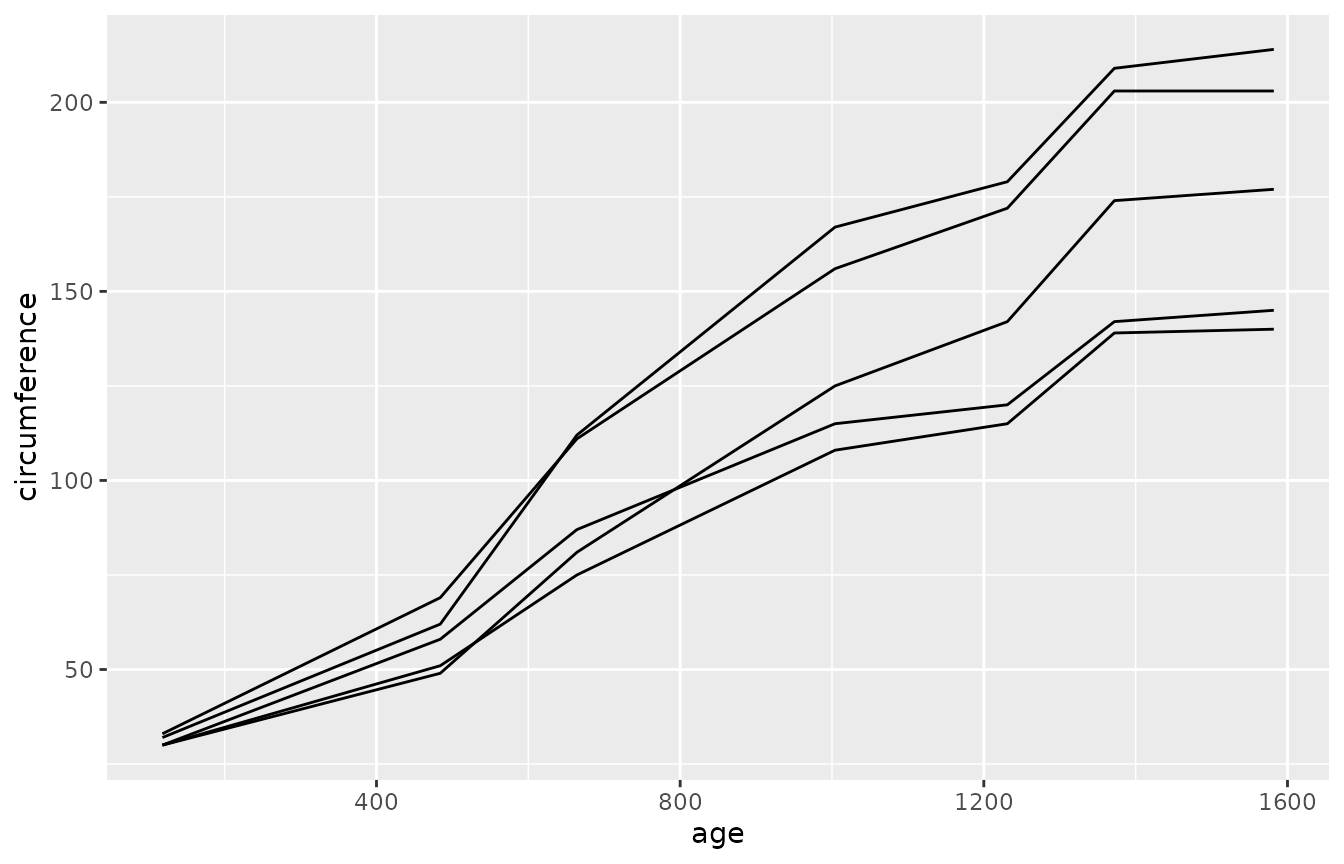
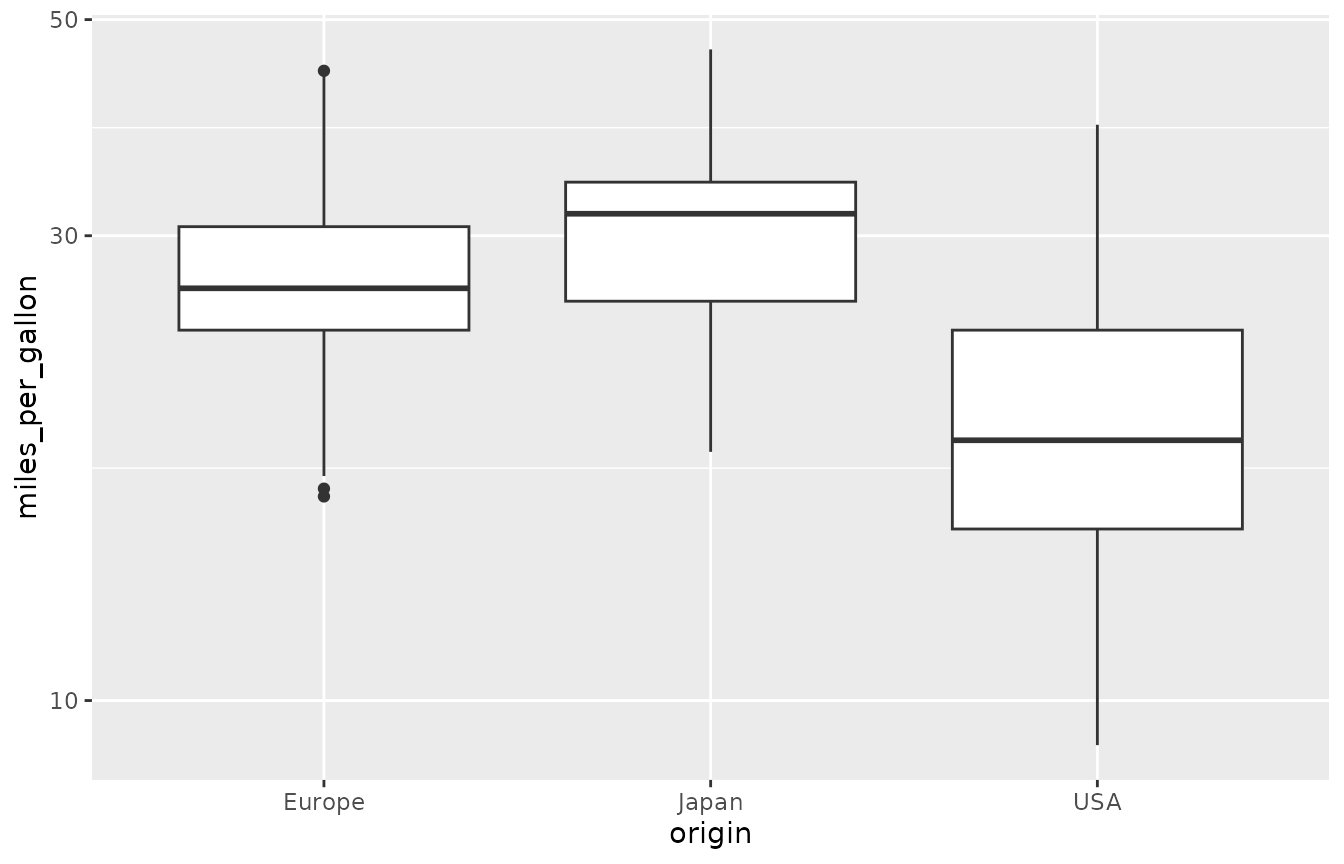
Deploying to gh-pages from @ sgl-projects/rsgl@6711109b4e8c98e51c51e7582ab96bc033e7d6c4 🚀

diff --git a/articles/example-gallery.html b/articles/example-gallery.html
@@ -122,6 +122,25 @@ analyzed.</p>
 <div class="sourceCode" id="cb4"><pre class="downlit sourceCode r">
 <code class="sourceCode R"><span><span class="fu"><a href="../reference/dbGetPlot.html">dbGetPlot</a></span><span class="op">(</span><span class="va">con</span>, <span class="st">"</span></span>
 <span><span class="st">  visualize</span></span>
+<span><span class="st">    horsepower as x,</span></span>
+<span><span class="st">    miles_per_gallon as y</span></span>
+<span><span class="st">  from cars</span></span>
+<span><span class="st">  using (</span></span>
+<span><span class="st">    points</span></span>
+<span><span class="st">    layer</span></span>
+<span><span class="st">    regression line</span></span>
+<span><span class="st">  )</span></span>
+<span><span class="st">  facet by</span></span>
+<span><span class="st">    origin</span></span>
+<span><span class="st">  scale by</span></span>
+<span><span class="st">    log(x),</span></span>
+<span><span class="st">    log(y)</span></span>
+<span><span class="st">"</span><span class="op">)</span></span></code></pre></div>
+<p><img src="example-gallery_files/figure-html/unnamed-chunk-4-1.png" class="r-plt" alt="" width="672"></p>
+<hr>
+<div class="sourceCode" id="cb5"><pre class="downlit sourceCode r">
+<code class="sourceCode R"><span><span class="fu"><a href="../reference/dbGetPlot.html">dbGetPlot</a></span><span class="op">(</span><span class="va">con</span>, <span class="st">"</span></span>
+<span><span class="st">  visualize</span></span>
 <span><span class="st">    bin(miles_per_gallon) as x,</span></span>
 <span><span class="st">    count(*) as y</span></span>
 <span><span class="st">  from cars</span></span>
@@ -129,7 +148,19 @@ analyzed.</p>
 <span><span class="st">    bin(miles_per_gallon)</span></span>
 <span><span class="st">  using bars</span></span>
 <span><span class="st">"</span><span class="op">)</span></span></code></pre></div>
-<p><img src="example-gallery_files/figure-html/unnamed-chunk-4-1.png" class="r-plt" alt="" width="672"></p>
+<p><img src="example-gallery_files/figure-html/unnamed-chunk-5-1.png" class="r-plt" alt="" width="672"></p>
+<hr>
+<div class="sourceCode" id="cb6"><pre class="downlit sourceCode r">
+<code class="sourceCode R"><span><span class="fu"><a href="../reference/dbGetPlot.html">dbGetPlot</a></span><span class="op">(</span><span class="va">con</span>, <span class="st">"</span></span>
+<span><span class="st">  visualize</span></span>
+<span><span class="st">    origin as x,</span></span>
+<span><span class="st">    miles_per_gallon as y</span></span>
+<span><span class="st">  from cars</span></span>
+<span><span class="st">  using boxes</span></span>
+<span><span class="st">  scale by</span></span>
+<span><span class="st">    log(y)</span></span>
+<span><span class="st">"</span><span class="op">)</span></span></code></pre></div>
+<p><img src="example-gallery_files/figure-html/unnamed-chunk-6-1.png" class="r-plt" alt="" width="672"></p>
 </div>
 </div>
 <div class="section level2">
@@ -138,7 +169,7 @@ analyzed.</p>
 <div class="section level3">
 <h3 id="setup-1">Setup<a class="anchor" aria-label="anchor" href="#setup-1"></a>
 </h3>
-<div class="sourceCode" id="cb5"><pre class="downlit sourceCode r">
+<div class="sourceCode" id="cb7"><pre class="downlit sourceCode r">
 <code class="sourceCode R"><span><span class="fu"><a href="https://dbi.r-dbi.org/reference/dbWriteTable.html" class="external-link">dbWriteTable</a></span><span class="op">(</span><span class="va">con</span>, <span class="st">"trees"</span>, <span class="va">trees</span><span class="op">)</span></span>
 <span><span class="fu"><a href="https://dbi.r-dbi.org/reference/dbGetQuery.html" class="external-link">dbGetQuery</a></span><span class="op">(</span><span class="va">con</span>, <span class="st">"</span></span>
 <span><span class="st">  select *</span></span>
@@ -155,7 +186,7 @@ analyzed.</p>
 <div class="section level3">
 <h3 id="example-plots-1">Example Plots<a class="anchor" aria-label="anchor" href="#example-plots-1"></a>
 </h3>
-<div class="sourceCode" id="cb6"><pre class="downlit sourceCode r">
+<div class="sourceCode" id="cb8"><pre class="downlit sourceCode r">
 <code class="sourceCode R"><span><span class="fu"><a href="../reference/dbGetPlot.html">dbGetPlot</a></span><span class="op">(</span><span class="va">con</span>, <span class="st">"</span></span>
 <span><span class="st">  visualize</span></span>
 <span><span class="st">    age as x,</span></span>
@@ -165,9 +196,9 @@ analyzed.</p>
 <span><span class="st">    tree_id</span></span>
 <span><span class="st">  using lines</span></span>
 <span><span class="st">"</span><span class="op">)</span></span></code></pre></div>
-<p><img src="example-gallery_files/figure-html/unnamed-chunk-6-1.png" class="r-plt" alt="" width="672"></p>
+<p><img src="example-gallery_files/figure-html/unnamed-chunk-8-1.png" class="r-plt" alt="" width="672"></p>
 <hr>
-<div class="sourceCode" id="cb7"><pre class="downlit sourceCode r">
+<div class="sourceCode" id="cb9"><pre class="downlit sourceCode r">
 <code class="sourceCode R"><span><span class="fu"><a href="../reference/dbGetPlot.html">dbGetPlot</a></span><span class="op">(</span><span class="va">con</span>, <span class="st">"</span></span>
 <span><span class="st">  visualize</span></span>
 <span><span class="st">    age as theta,</span></span>
@@ -182,7 +213,7 @@ analyzed.</p>
 <span><span class="st">    tree_id</span></span>
 <span><span class="st">  using lines</span></span>
 <span><span class="st">"</span><span class="op">)</span></span></code></pre></div>
-<p><img src="example-gallery_files/figure-html/unnamed-chunk-7-1.png" class="r-plt" alt="" width="672"></p>
+<p><img src="example-gallery_files/figure-html/unnamed-chunk-9-1.png" class="r-plt" alt="" width="672"></p>
 </div>
 </div>
   </main><aside class="col-md-3"><nav id="toc" aria-label="Table of contents"><h2>On this page</h2>

diff --git a/articles/example-gallery.md b/articles/example-gallery.md
@@ -62,6 +62,30 @@ dbGetPlot(con, "
 
 dbGetPlot(con, "
   visualize
+    horsepower as x,
+    miles_per_gallon as y
+  from cars
+  using (
+    points
+    layer
+    regression line
+  )
+  facet by
+    origin
+  scale by
+    log(x),
+    log(y)
+")
+```
+
+![](example-gallery_files/figure-html/unnamed-chunk-4-1.png)
+
+------------------------------------------------------------------------
+
+``` r
+
+dbGetPlot(con, "
+  visualize
     bin(miles_per_gallon) as x,
     count(*) as y
   from cars
@@ -71,7 +95,24 @@ dbGetPlot(con, "
 ")
 ```
 
-![](example-gallery_files/figure-html/unnamed-chunk-4-1.png)
+![](example-gallery_files/figure-html/unnamed-chunk-5-1.png)
+
+------------------------------------------------------------------------
+
+``` r
+
+dbGetPlot(con, "
+  visualize
+    origin as x,
+    miles_per_gallon as y
+  from cars
+  using boxes
+  scale by
+    log(y)
+")
+```
+
+![](example-gallery_files/figure-html/unnamed-chunk-6-1.png)
 
 ## Trees
 
@@ -108,7 +149,7 @@ dbGetPlot(con, "
 ")
 ```
 
-![](example-gallery_files/figure-html/unnamed-chunk-6-1.png)
+![](example-gallery_files/figure-html/unnamed-chunk-8-1.png)
 
 ------------------------------------------------------------------------
 
@@ -130,4 +171,4 @@ dbGetPlot(con, "
 ")
 ```
 
-![](example-gallery_files/figure-html/unnamed-chunk-7-1.png)
+![](example-gallery_files/figure-html/unnamed-chunk-9-1.png)